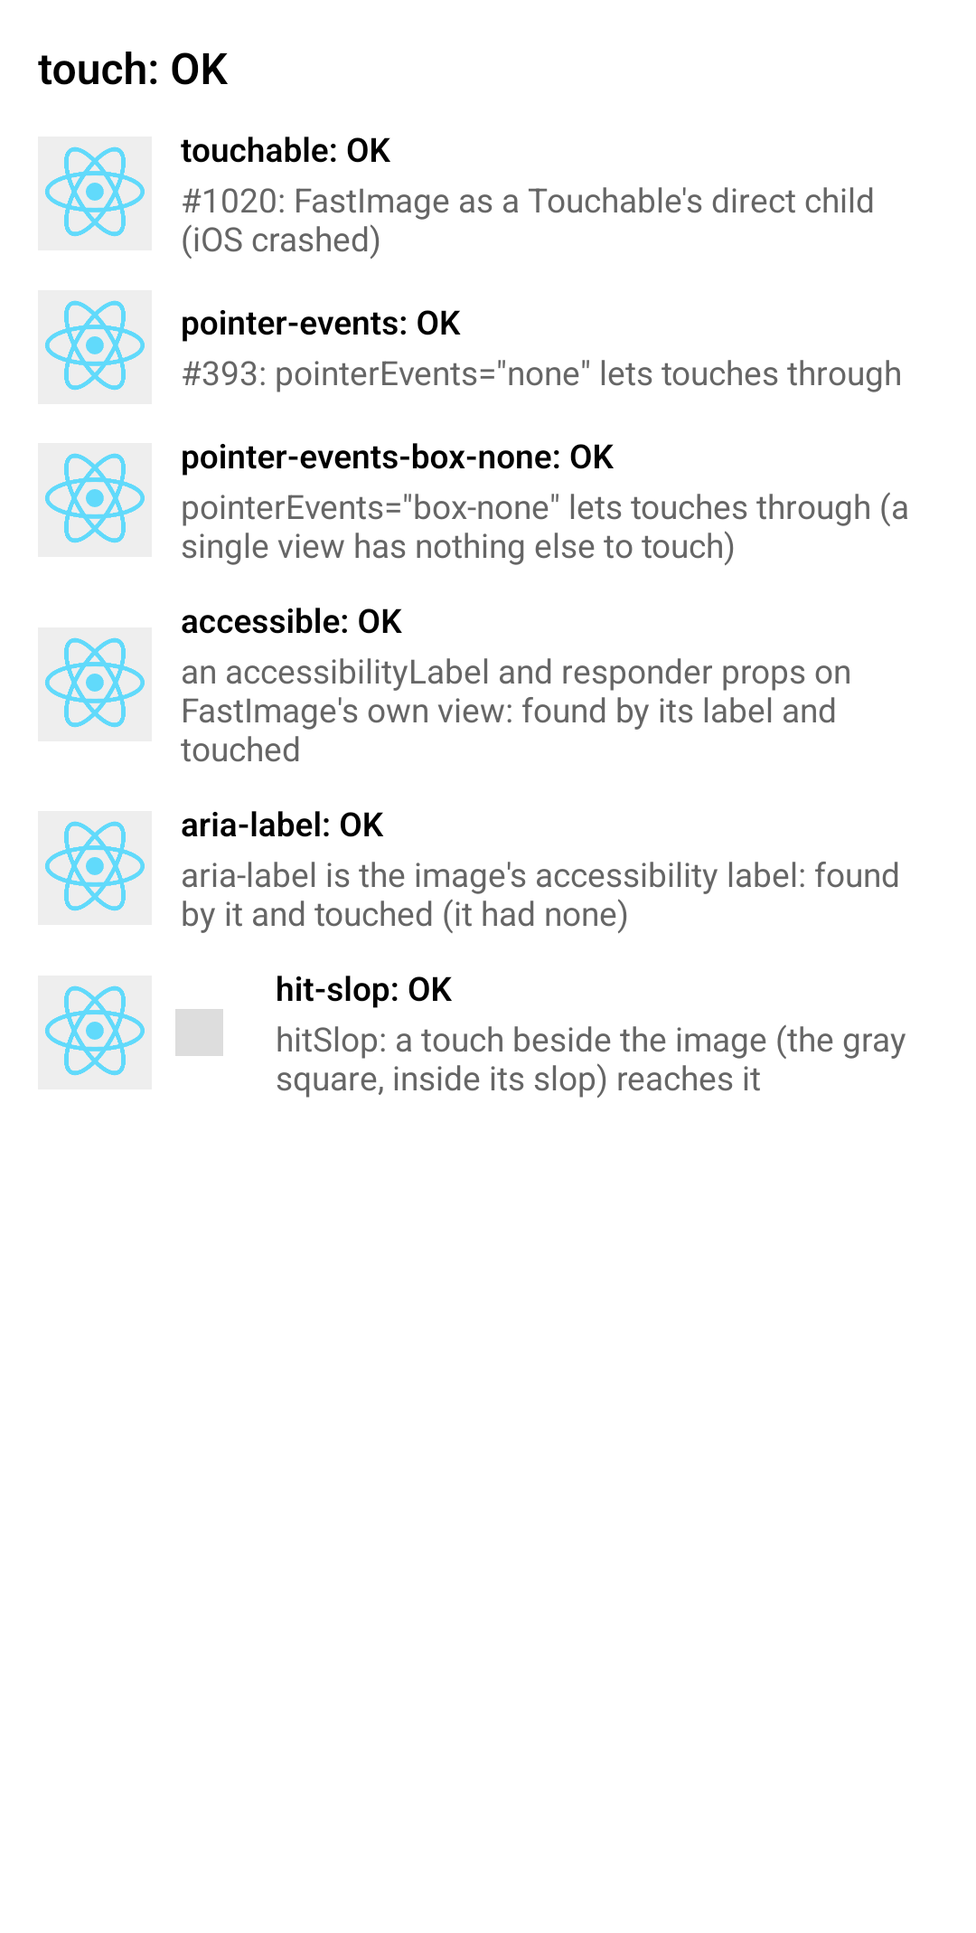
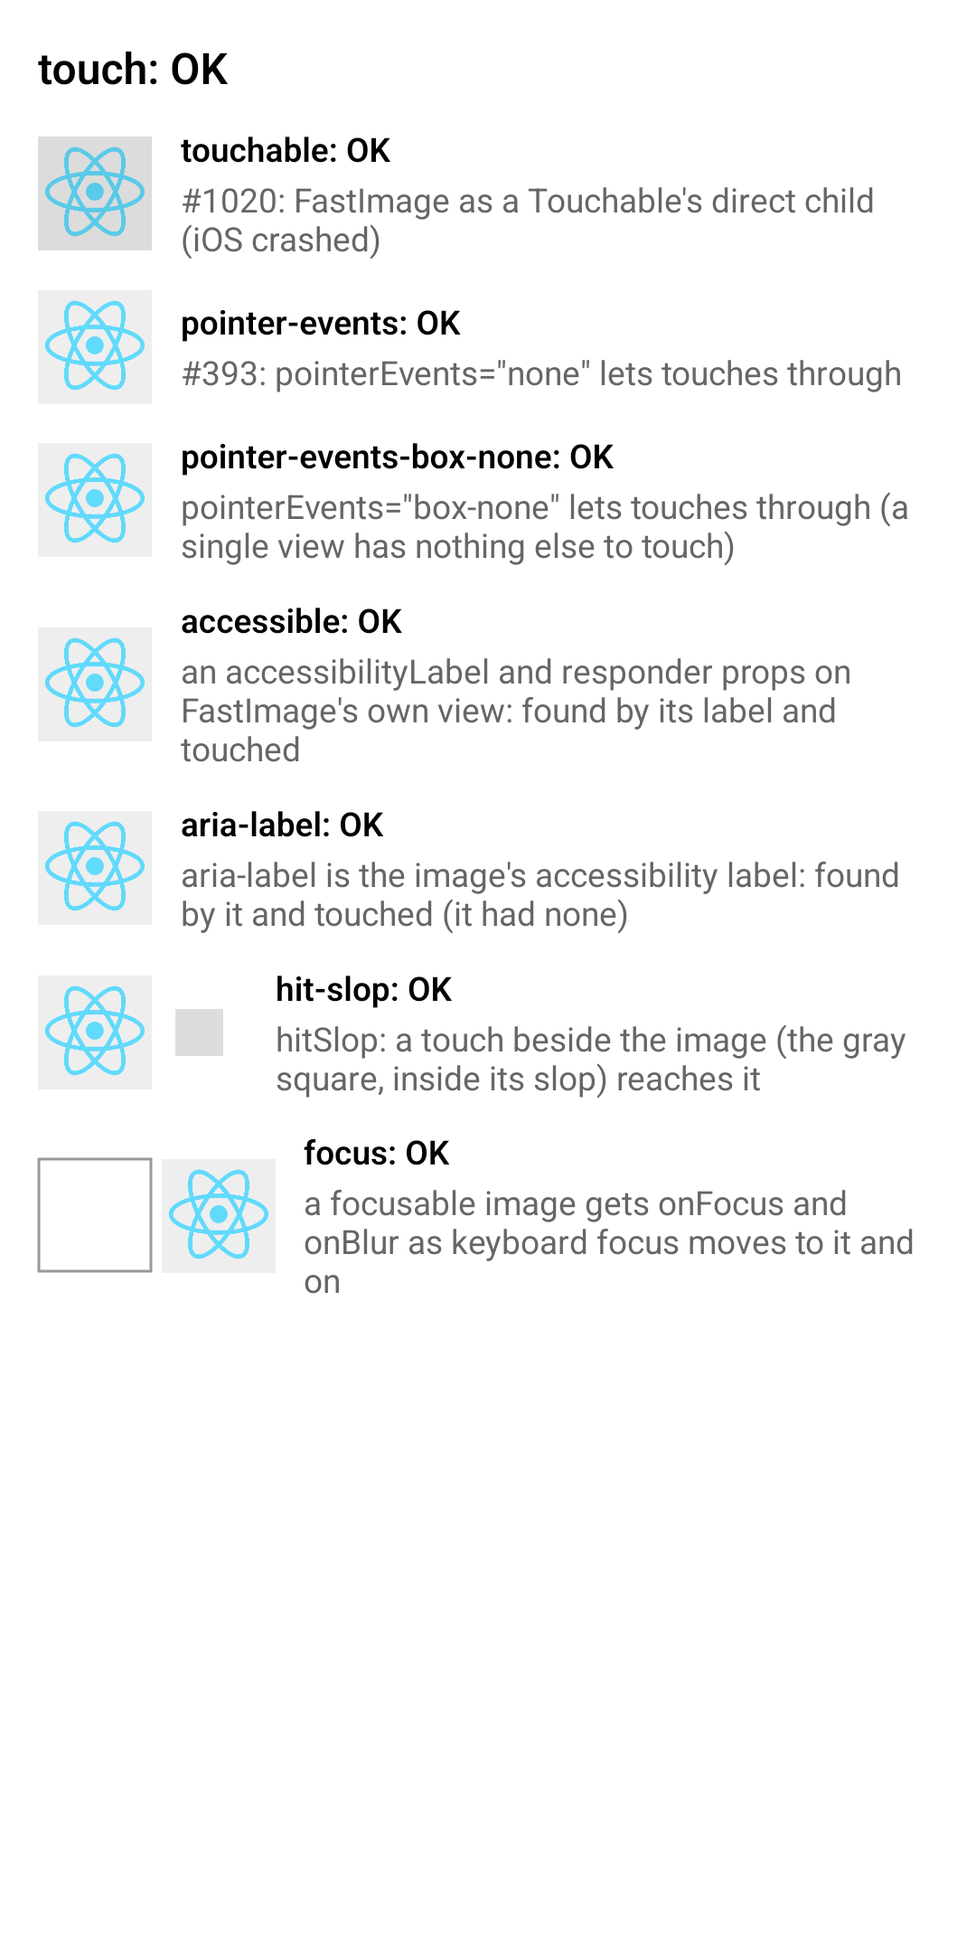
feat: take alt as the image's label, and check onFocus and onBlur
alt is the label after aria-label and accessibilityLabel and the web
alt text; on iOS it makes the image an accessibility element unless
accessible or aria-hidden says otherwise, and an empty one is a decorative
image. A touch case checks that a focusable image gets onFocus and onBlur
from keyboard focus on Android.

Changed region(s): [[0.3056, 0.5865, 0.9472, 0.6791], [0.1528, 0.5865, 0.275, 0.6483], [0.0306, 0.5865, 0.0611, 0.6483]]

diff --git a/src/index.test.tsx b/src/index.test.tsx
@@ -789,6 +789,18 @@ describe('FastImageBackground', () => {
         ).toBe(true)
     })
 
+    it('gives alt to the image, which it describes', () => {
+        const tree = renderer.create(
+            <FastImageBackground
+                source={{ uri: 'https://example.com/a.png' }}
+                alt="A beach"
+            />,
+            { createNodeMock: () => ({}) },
+        )
+        expect(tree.root.findByType(FastImage as any).props.alt).toBe('A beach')
+        expect(tree.root.findAllByType(View)[0].props.alt).toBeUndefined()
+    })
+
     it('gives imageProps to the image, over the others', () => {
         const a = { uri: 'https://example.com/a.png' }
         const b = { uri: 'https://example.com/b.png' }
@@ -1919,6 +1931,62 @@ describe('ARIA props', () => {
         ).toBeUndefined()
     })
 
+    it('passes onFocus and onBlur to the native view, which sends them as a View does', () => {
+        const onFocus = () => {}
+        const onBlur = () => {}
+        expect(
+            viewProps(
+                <FastImage
+                    source={source}
+                    focusable
+                    onFocus={onFocus}
+                    onBlur={onBlur}
+                />,
+            ),
+        ).toMatchObject({ onFocus, onBlur })
+    })
+
+    it('alt is the label after aria-label and accessibilityLabel, and makes the image accessible on iOS', () => {
+        expect(
+            viewProps(<FastImage source={source} alt="A cat" />),
+        ).toMatchObject({ accessibilityLabel: 'A cat', accessible: true })
+        expect(
+            viewProps(
+                <FastImage source={source} alt="A cat" aria-label="A dog" />,
+            ).accessibilityLabel,
+        ).toBe('A dog')
+        expect(
+            viewProps(
+                <FastImage
+                    source={source}
+                    alt="A cat"
+                    accessibilityLabel="A dog"
+                />,
+            ).accessibilityLabel,
+        ).toBe('A dog')
+        // An explicit accessible, or aria-hidden, wins.
+        expect(
+            viewProps(
+                <FastImage source={source} alt="A cat" accessible={false} />,
+            ).accessible,
+        ).toBe(false)
+        expect(
+            viewProps(<FastImage source={source} alt="A cat" aria-hidden />)
+                .accessible,
+        ).toBe(false)
+        // An empty or blank one is a decorative image: no label.
+        for (const alt of ['', ' ']) {
+            const native = viewProps(<FastImage source={source} alt={alt} />)
+            expect(native.accessibilityLabel).toBeUndefined()
+            expect(native.accessible).toBeUndefined()
+        }
+        // On Android TalkBack reads the label without it, as for aria-label.
+        Platform.OS = 'android'
+        const android = viewProps(<FastImage source={source} alt="A cat" />)
+        expect(android.accessibilityLabel).toBe('A cat')
+        expect(android.accessible).toBeUndefined()
+    })
+
     it('aria-label makes the image accessible unless accessible says otherwise', () => {
         expect(
             viewProps(<FastImage source={source} aria-label="A cat" />)
@@ -2005,6 +2073,7 @@ describe('ARIA props', () => {
             ],
             ['aria-hidden', true, { accessibilityElementsHidden: true }],
             ['aria-label', 'a', { accessibilityLabel: 'a' }],
+            ['alt', 'a', { accessibilityLabel: 'a' }],
             ['aria-labelledby', 'a', { accessibilityLabelledBy: ['a'] }],
             ['aria-live', 'polite', { accessibilityLiveRegion: 'polite' }],
             [

diff --git a/src/ariaProps.ts b/src/ariaProps.ts
@@ -7,6 +7,7 @@ import type { FastImageProps } from './index'
 
 // The props mapped here.
 export const ARIA_KEYS = [
+    'alt',
     'aria-busy',
     'aria-checked',
     'aria-disabled',
@@ -61,6 +62,7 @@ export function resolveAriaProps<P extends AriaProps>(
     if (!hasAria) return props as NativeProps<P>
     // The same keys as ARIA_KEYS (a test checks each one is mapped).
     const {
+        alt,
         'aria-busy': ariaBusy,
         'aria-checked': ariaChecked,
         'aria-disabled': ariaDisabled,
@@ -85,6 +87,10 @@ export function resolveAriaProps<P extends AriaProps>(
     } & TVProps
     // As View.js: a value given, null too, replaces the prop it maps to.
     if (ariaLabel !== undefined) native.accessibilityLabel = ariaLabel
+    // alt after both, as in React Native's Image; an empty one is none.
+    else if (native.accessibilityLabel == null && isLabel(alt)) {
+        native.accessibilityLabel = alt
+    }
     // A string is a list of ids, as in View.js; another value (e.g. an array,
     // accessibilityLabelledBy's form) goes on as it is, as in Image.
     if (ariaLabelledBy != null) {
@@ -117,17 +123,17 @@ export function resolveAriaProps<P extends AriaProps>(
     // out. Without focusable, an isTVSelectable given goes on as it is.
     if (ios && native.focusable != null)
         native.isTVSelectable = native.focusable
-    // On iOS, a labelled image is an accessibility element unless
-    // `accessible` says otherwise or accessibilityElementsHidden hides it, as
-    // an <img aria-label> on the web and React Native's Image with `alt`: iOS
-    // reads `accessible` for it. Android's TalkBack reads the label either
-    // way, and `accessible` would make the image a stop of its own, splitting
-    // a Pressable's announcement in two. An empty label is none, as on the
-    // web (a decorative image), and so is a blank one.
+    // On iOS, an image with aria-label or alt is an accessibility element
+    // unless `accessible` says otherwise or accessibilityElementsHidden hides
+    // it, as an <img aria-label> or <img alt> on the web and React Native's
+    // Image with `alt`: iOS reads `accessible` for it. Android's TalkBack
+    // reads the label either way, and `accessible` would make the image a
+    // stop of its own, splitting a Pressable's announcement in two. An empty
+    // label is none, as on the web (a decorative image), and so is a blank
+    // one.
     if (
         ios &&
-        typeof ariaLabel === 'string' &&
-        ariaLabel.trim() !== '' &&
+        (isLabel(ariaLabel) || isLabel(alt)) &&
         native.accessible === undefined &&
         !native.accessibilityElementsHidden
     ) {
@@ -164,4 +170,9 @@ export function resolveAriaProps<P extends AriaProps>(
         }
     }
     return native as NativeProps<P>
+}
+
+// A label to read: a string that isn't empty or blank.
+function isLabel(value: unknown): value is string {
+    return typeof value === 'string' && value.trim() !== ''
 }

diff --git a/ReactNativeFastImageExample/src/RegressionExample.tsx b/ReactNativeFastImageExample/src/RegressionExample.tsx
@@ -17,6 +17,7 @@ import {
     ScrollView,
     StyleSheet,
     Text,
+    TextInput,
     TouchableWithoutFeedback,
     View,
 } from 'react-native'
@@ -426,6 +427,42 @@ function HitSlopCase() {
     )
 }
 
+// onFocus and onBlur on a focusable FastImage, from keyboard focus (Android:
+// React Native's base view manager sends them for any view). maestro/touch.yaml
+// taps the text field before the image and presses Tab twice, which moves
+// focus to the image and on; passes when it got onFocus, then onBlur. Not on
+// iOS, where React Native sends them only for focus moved from code, behind a
+// feature flag.
+function FocusCase() {
+    const [events, setEvents] = useState<string[]>([])
+    return (
+        <View style={styles.row}>
+            {/* Without the soft keyboard, which would cover the screenshot. */}
+            <TextInput
+                testID="regression-focus-input"
+                showSoftInputOnFocus={false}
+                style={touchStyles.focusInput}
+            />
+            <FastImage
+                focusable
+                onFocus={() => setEvents((e) => [...e, 'focus'])}
+                onBlur={() => setEvents((e) => [...e, 'blur'])}
+                style={styles.image}
+                source={{ uri: LOGO }}
+            />
+            <CaseStatus
+                id="focus"
+                status={
+                    events[0] === 'focus' && events[1] === 'blur'
+                        ? 'OK'
+                        : `focus with Tab (${events.join(', ') || 'none yet'})`
+                }
+                description="a focusable image gets onFocus and onBlur as keyboard focus moves to it and on"
+            />
+        </View>
+    )
+}
+
 const touchStyles = StyleSheet.create({
     // The image (48) and its slop (40).
     hitSlopArea: { width: 88 },
@@ -436,6 +473,13 @@ const touchStyles = StyleSheet.create({
         width: 20,
         height: 20,
         backgroundColor: '#ddd',
+    },
+    focusInput: {
+        width: 48,
+        height: 48,
+        marginRight: 4,
+        borderWidth: 1,
+        borderColor: '#999',
     },
 })
 
@@ -10691,6 +10735,7 @@ export const REGRESSION_GROUPS: RegressionGroup[] = [
             <AccessibleCase key="accessible" />,
             <AriaLabelCase key="aria-label" />,
             <HitSlopCase key="hit-slop" />,
+            ...(Platform.OS === 'android' ? [<FocusCase key="focus" />] : []),
         ],
     },
 ]

diff --git a/src/index.web.test.tsx b/src/index.web.test.tsx
@@ -270,6 +270,21 @@ describe('FastImage (web)', () => {
         expect(alone[0].props.alt).toBe('An image')
     })
 
+    it("uses alt as the image's alt text, after aria-label and accessibilityLabel", () => {
+        const tree = render(<FastImage source={A} alt="A cat" />)
+        expect(images(tree)[0].props.alt).toBe('A cat')
+        expect(hosts(tree, 'View')[0].props['aria-label']).toBe('A cat')
+        expect(hosts(tree, 'View')[0].props.alt).toBeUndefined()
+        const labelled = render(
+            <FastImage source={A} alt="A cat" accessibilityLabel="A dog" />,
+        )
+        expect(images(labelled)[0].props.alt).toBe('A dog')
+        // An empty one is a decorative image.
+        expect(
+            images(render(<FastImage source={A} alt="" />))[0].props.alt,
+        ).toBe('')
+    })
+
     it("hides an image that failed (the browser's broken image)", () => {
         const tree = render(<FastImage source={A} accessibilityLabel="A" />)
         act(() => {

diff --git a/src/index.web.tsx b/src/index.web.tsx
@@ -112,15 +112,16 @@ function FastImageBase({
     }
     // The label is the wrapper's aria-label, as react-native-web's Image gave
     // it (its View warns that accessibilityLabel is deprecated), and the
-    // <img>'s alt text.
+    // <img>'s alt text. alt comes after the others, as on iOS and Android.
     const {
         accessibilityLabel,
         'aria-label': ariaLabel,
+        alt,
         // Removed in 10.0 (objectFit instead): ignored.
         resizeMode: _resizeMode,
         ...viewProps
     } = props as typeof props & { 'aria-label'?: string; resizeMode?: unknown }
-    const label = ariaLabel || accessibilityLabel || undefined
+    const label = ariaLabel || accessibilityLabel || alt || undefined
     const several =
         Array.isArray(source) && source.length > 1 ? source : undefined
     const sized = several ? sizedSources(several) : undefined

diff --git a/src/index.tsx b/src/index.tsx
@@ -642,6 +642,15 @@ export interface FastImageProps extends AccessibilityProps, ViewProps {
      * @default 0
      */
     blurRadius?: number
+    /**
+     * Text that describes the image, as an `<img>`'s `alt`: screen readers
+     * read it, and on iOS it makes the image an accessibility element.
+     *
+     * - `aria-label` and `accessibilityLabel` take priority over it.
+     * - An empty `alt` (`alt=""`) is a decorative image, with no label.
+     * - On the web, it's the image's alt text.
+     */
+    alt?: string
 
     /** Called when the image starts to load. */
     onLoadStart?(): void

diff --git a/src/backgroundProps.ts b/src/backgroundProps.ts
@@ -30,6 +30,7 @@ const IMAGE_KEYS: Record<ImageKey, true> = {
     dynamicRangeLimit: true,
     blurRadius: true,
     tintColor: true,
+    alt: true,
     onLoadStart: true,
     onProgress: true,
     onLoad: true,

diff --git a/docs/comparisons.md b/docs/comparisons.md
@@ -37,6 +37,7 @@ Potential issues in Expo Image: [issues/expo-image-issues.md](issues/expo-image-
 - **Full-size decoding.** Fast Image's `downsample={false}` caps Android decodes at 16 megapixels so they can be drawn; Expo Image's `allowDownscaling={false}` has no cap and crashes with very large images. _(Reported upstream with a repro.)_
 - **blurRadius.** Fast Image's looks the same whatever the file's resolution and platform, and a change sends no load events. Expo Image's depends on the image's resolution on iOS, is capped at 25 on Android, and reloads on Android. _(Code.)_
 - **Events.** Fast Image sends only the events an image has handlers for; Expo Image sends every event for every image, including progress per network chunk on Android. On Android, Expo Image's `onProgress` reaches only the view that started a shared load. _(Code.)_
+- **`alt`.** Both take it as the label after `accessibilityLabel`, and as the image's alt text on the web. Fast Image also makes an image with `alt` an accessibility element on iOS (an explicit `accessible` wins), so VoiceOver reads it as it reads an `<img alt>` on the web, and takes an empty `alt` as a decorative image. Expo Image only uses it as the label. _(Code.)_
 - **What Expo Image has that Fast Image doesn't.** SF Symbols (`sf:` sources, with symbol effects), `svgVariables` (CSS variables in SVGs), Live Text (`enableLiveTextInteraction`), `decodeFormat` (16-bit bitmaps on Android), `onDisplay`, `lockResourceAsync`/`reloadAsync`, and an `imageLoaded` event for expo-observe. _(Code.)_
 - **What Fast Image has that Expo Image doesn't.** `cache: 'web'` and `'cacheOnly'`, `loop`, `imageRendering` (`'pixelated'` and `'smooth'`), `onLoadEnd` with the load's result, `onError` with the HTTP status, a global default for fades (`setDefaults`), and cache limits in native config. _(Code.)_
 - **Platforms and install.** Fast Image needs React Native 0.83+ with the New Architecture and iOS/tvOS 15.1+ (Fast Image 9 for older setups); Expo Image 58 needs iOS/tvOS 16.4+ and its Expo SDK. Fast Image accepts any SDWebImage 5.x from 5.21.5, where Expo Image pins 5.21.x, and Expo Image adds libavif and libdav1d for AVIF on iOS, where Fast Image uses the system's decoder. Both can be in one app: Fast Image adds its Glide components to Expo Image's Glide setup on Android ([with expo-image](android-build-settings.md#with-expo-image)). _(Code.)_
@@ -66,11 +67,12 @@ Potential issues in React Native's `Image`: [issues/react-native-image-issues.md
 - **Tint.** At parity for still images (both show a template image in the view's `tintColor` on iOS). On iOS, a tinted animated GIF doesn't animate tinted with React Native's `Image`; Fast Image tints each frame. _(Code.)_
 - **onProgress.** Fast Image sends bytes and a 0–1 `progress` on both platforms. React Native's `Image` sends Fresco's level out of 10000 on Android and a total of -1 on iOS when the size is unknown. _(Code.)_
 - **Several sizes in `source`.** Both pick the source closest to the view's size in pixels, natively. Fast Image also loads the largest when the view has no size yet, where React Native's `Image` waits, so an image sized from its own `onLoad` never loads. _(Code.)_
-- **What React Native's `Image` has that Fast Image doesn't.** `capInsets`, `loadingIndicatorSource`, `progressiveRenderingEnabled`, `resizeMethod`/`resizeMultiplier`, tiling (`resizeMode="repeat"`, which Fast Image no longer has), and web-style props (`src`, `srcSet`, `width`, `height`, `alt`, `crossOrigin`, `referrerPolicy`); and a fuller web version through react-native-web, where Fast Image's is minimal ([web](../README.md#web)). _(Code.)_
+- **What React Native's `Image` has that Fast Image doesn't.** `capInsets`, `loadingIndicatorSource`, `progressiveRenderingEnabled`, `resizeMethod`/`resizeMultiplier`, tiling (`resizeMode="repeat"`, which Fast Image no longer has), and web-style props (`src`, `srcSet`, `width`, `height`, `crossOrigin`, `referrerPolicy`); and a fuller web version through react-native-web, where Fast Image's is minimal ([web](../README.md#web)). _(Code.)_
 - **Headers.** Both send a source's `headers`. Fast Image sends numbers and booleans as strings (as fetch does), leaves out null and undefined values (headers that aren't set), and warns in development about values it can't send (objects). React Native's `Image` drops every header on iOS when one value isn't a string, and on Android `getString` throws for a number value. _(Code.)_
 - **Padding.** Fast Image ignores padding on both platforms (the image fills the view inside its borders). React Native's `Image` insets the image by padding on iOS and ignores it on Android. _(Code.)_
 - **ARIA props.** Fast Image maps all of `View`'s: `aria-label`, `aria-labelledby`, `aria-hidden`, the state props (`aria-busy`, `aria-checked`, …), `aria-live`, the value props (`aria-valuenow`, …) and `id`. React Native's `Image` maps the first four and leaves out `aria-live`, the value props and `id`. _(Code.)_
 - **Keyboard focus and TalkBack on Android.** Fast Image takes keyboard and D-pad focus from `focusable` (and `tabIndex`), which React Native's `Image` ignores. `accessible` makes it a TalkBack stop without keyboard focus, as it's a VoiceOver element on iOS; React Native's `Image` makes an `accessible` image a keyboard and D-pad stop too, with no action there. _(Code.)_
+- **`alt`.** Both take it as the label after `aria-label` and `accessibilityLabel`, and as the image's alt text on the web. React Native's `Image` makes an image with `alt` accessible on iOS and Android, even over `accessible={false}`; Fast Image does on iOS, where VoiceOver needs it, leaves an explicit `accessible` alone, and takes an empty `alt` as a decorative image (no label), as the web does. _(Code.)_
 - **Focus on Apple TV.** `focusable` and `tabIndex` make Fast Image focusable on Apple TV. In React Native tvOS, `focusable` does that for a `View` but not an `Image` (its native view reads only `isTVSelectable`, which only `View` sets from `focusable`), and `tabIndex` does it for neither (`View` maps it to `focusable`, then builds `isTVSelectable` from the `focusable` prop). _(Code.)_
 - **At parity:** cookies on Android (both use React Native's cookie jar), sharing one download between sizes on Android, tvOS (except focus, above), View props and accessibility on a single native view, and `tintColor` on still images. _(Code.)_
 

diff --git a/README.md b/README.md
@@ -101,7 +101,7 @@ const YourImage = () => (
 
 ### `FastImage`
 
-It's a single native view, which also takes React Native's View props, such as accessibility props, `testID`, `nativeID`, `onLayout`, `pointerEvents` and `hitSlop`. A ref to it is that view (e.g. for `measure`), with [`reload()`](#refreload). It doesn't take children: use [`FastImageBackground`](#fastimagebackground) for content over an image.
+It's a single native view, which also takes React Native's View props, such as accessibility props, focus (`focusable`, `tabIndex`, `onFocus` and `onBlur`), `testID`, `nativeID`, `onLayout`, `pointerEvents` and `hitSlop`. A ref to it is that view (e.g. for `measure`), with [`reload()`](#refreload). It doesn't take children: use [`FastImageBackground`](#fastimagebackground) for content over an image.
 
 <!-- api:props start (generated from src/ by website/scripts/generate.mts) -->
 
@@ -456,6 +456,18 @@ It's for still images, or a radius that changes now and then (e.g. blurring a ph
 - Changing it blurs the image that's showing again, without sending the load events again.
 
 To animate a blur, or to blur an animated image, use React Native's `filter` style instead, which the GPU draws: `style={{ filter: [{ blur: 6 }] }}`. React Native's docs list `blur` for Android 12+ only; on iOS it's behind an experimental React Native feature flag (`enableSwiftUIBasedFilters`, SwiftUI-based filters).
+
+---
+
+#### `alt`
+
+**Type:** `string`
+
+Text that describes the image, as an `<img>`'s `alt`: screen readers read it, and on iOS it makes the image an accessibility element.
+
+- `aria-label` and `accessibilityLabel` take priority over it.
+- An empty `alt` (`alt=""`) is a decorative image, with no label.
+- On the web, it's the image's alt text.
 
 ---
 
@@ -1008,7 +1020,7 @@ FastImage works on the web with [react-native-web](https://necolas.github.io/rea
 
 Support is minimal:
 
-- Props that work: `source` (a `uri`, a `require()`d image, or several sizes, with `thumbhash` and `blurDataUri`), `placeholder` (and `defaultSource`), `objectFit`, `objectPosition`, `tintColor`, `blurRadius`, `style`, `source.priority`, the web-only `loading` and `sizes`, `onLoadStart`, `onLoad`, `onError`, `onLoadEnd`, and View props such as `testID`, accessibility props, `onLayout` and `pointerEvents`.
+- Props that work: `source` (a `uri`, a `require()`d image, or several sizes, with `thumbhash` and `blurDataUri`), `placeholder` (and `defaultSource`), `objectFit`, `objectPosition`, `tintColor`, `blurRadius`, `alt`, `style`, `source.priority`, the web-only `loading` and `sizes`, `onLoadStart`, `onLoad`, `onError`, `onLoadEnd`, and View props such as `testID`, accessibility props, `onLayout` and `pointerEvents`.
 - Ignored: `source.headers` (a browser can't send them for an image), `source.cache`, `source.cacheKey`, `source.memoryCache`, `source.diskCache`, `recyclingKey`, `loop`, `imageRendering`, `paused`, `transition`, `downsample` and `onProgress`.
 - The image is an `<img>` element that fills the view inside its borders, with `objectFit` and `objectPosition` as its CSS `object-fit` and `object-position`. `tintColor` is an SVG filter and `blurRadius` a CSS `blur()`, and the placeholder is another `<img>`, under the image until it has loaded. A new `source` gets a new `<img>`, so the previous image doesn't stay while it loads (with several sizes, the browser shows it until the new one has loaded).
 - Images load lazily unless [`loading`](#loading) is `'eager'`, and `source.priority` `'high'` and `'low'` are the `<img>`'s `fetchpriority`.
